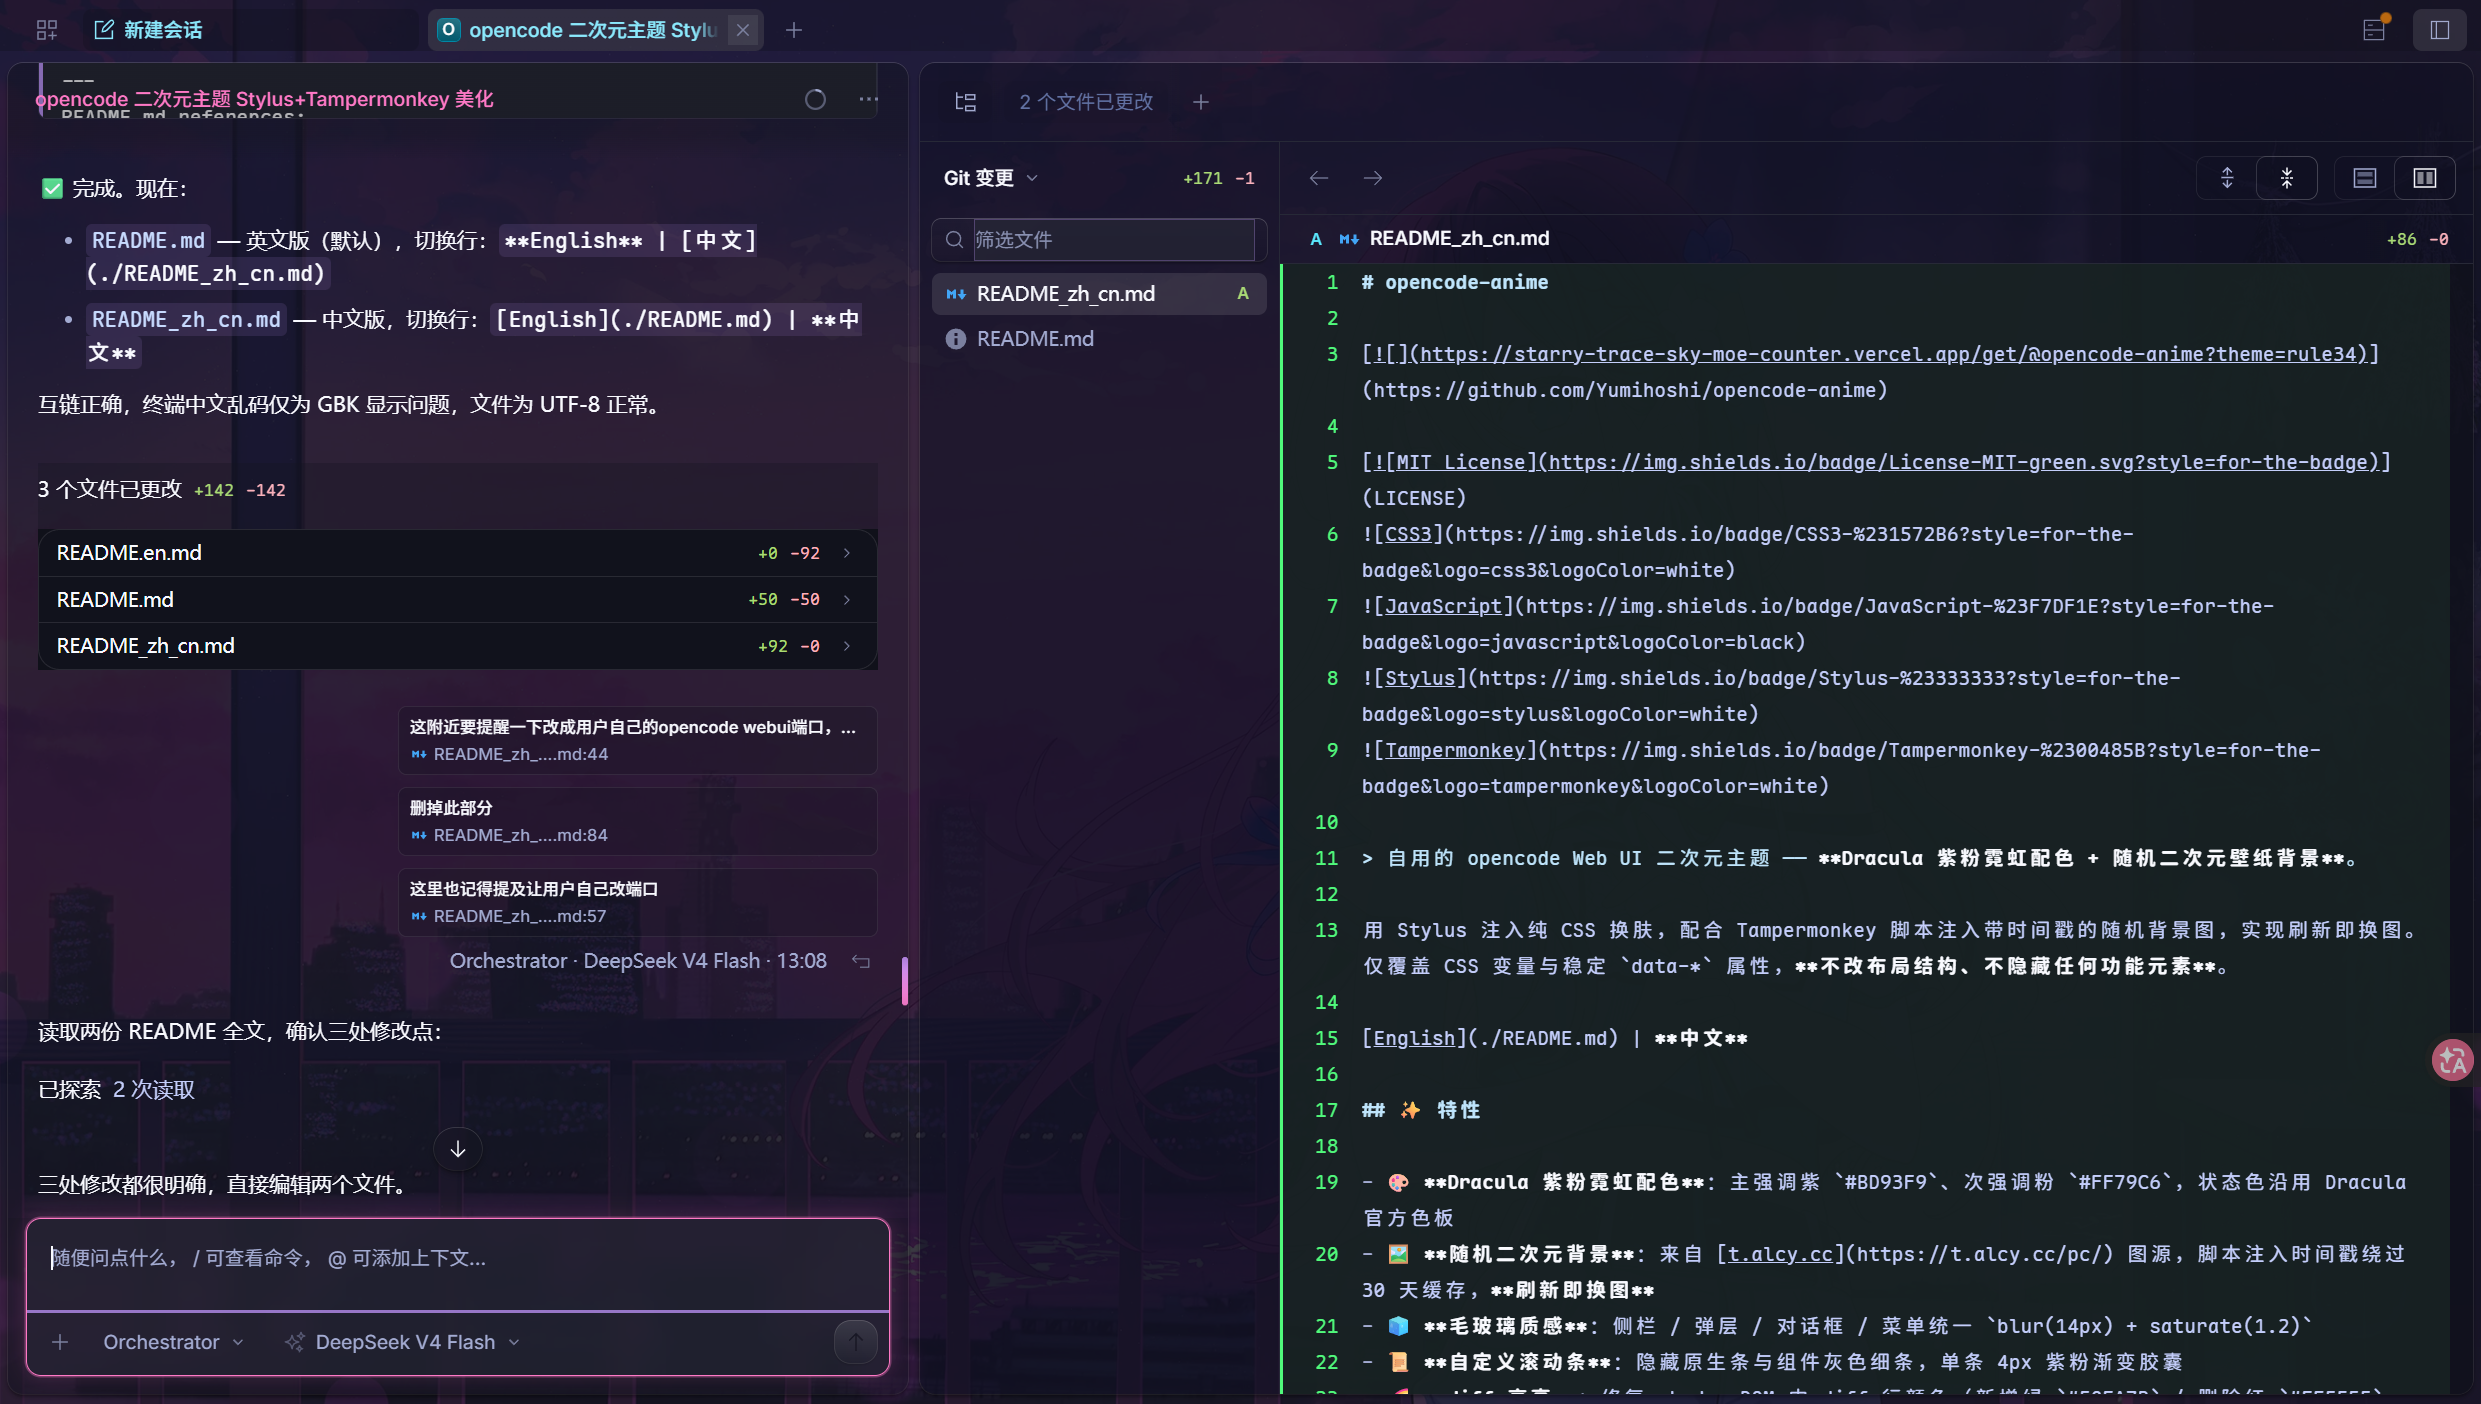
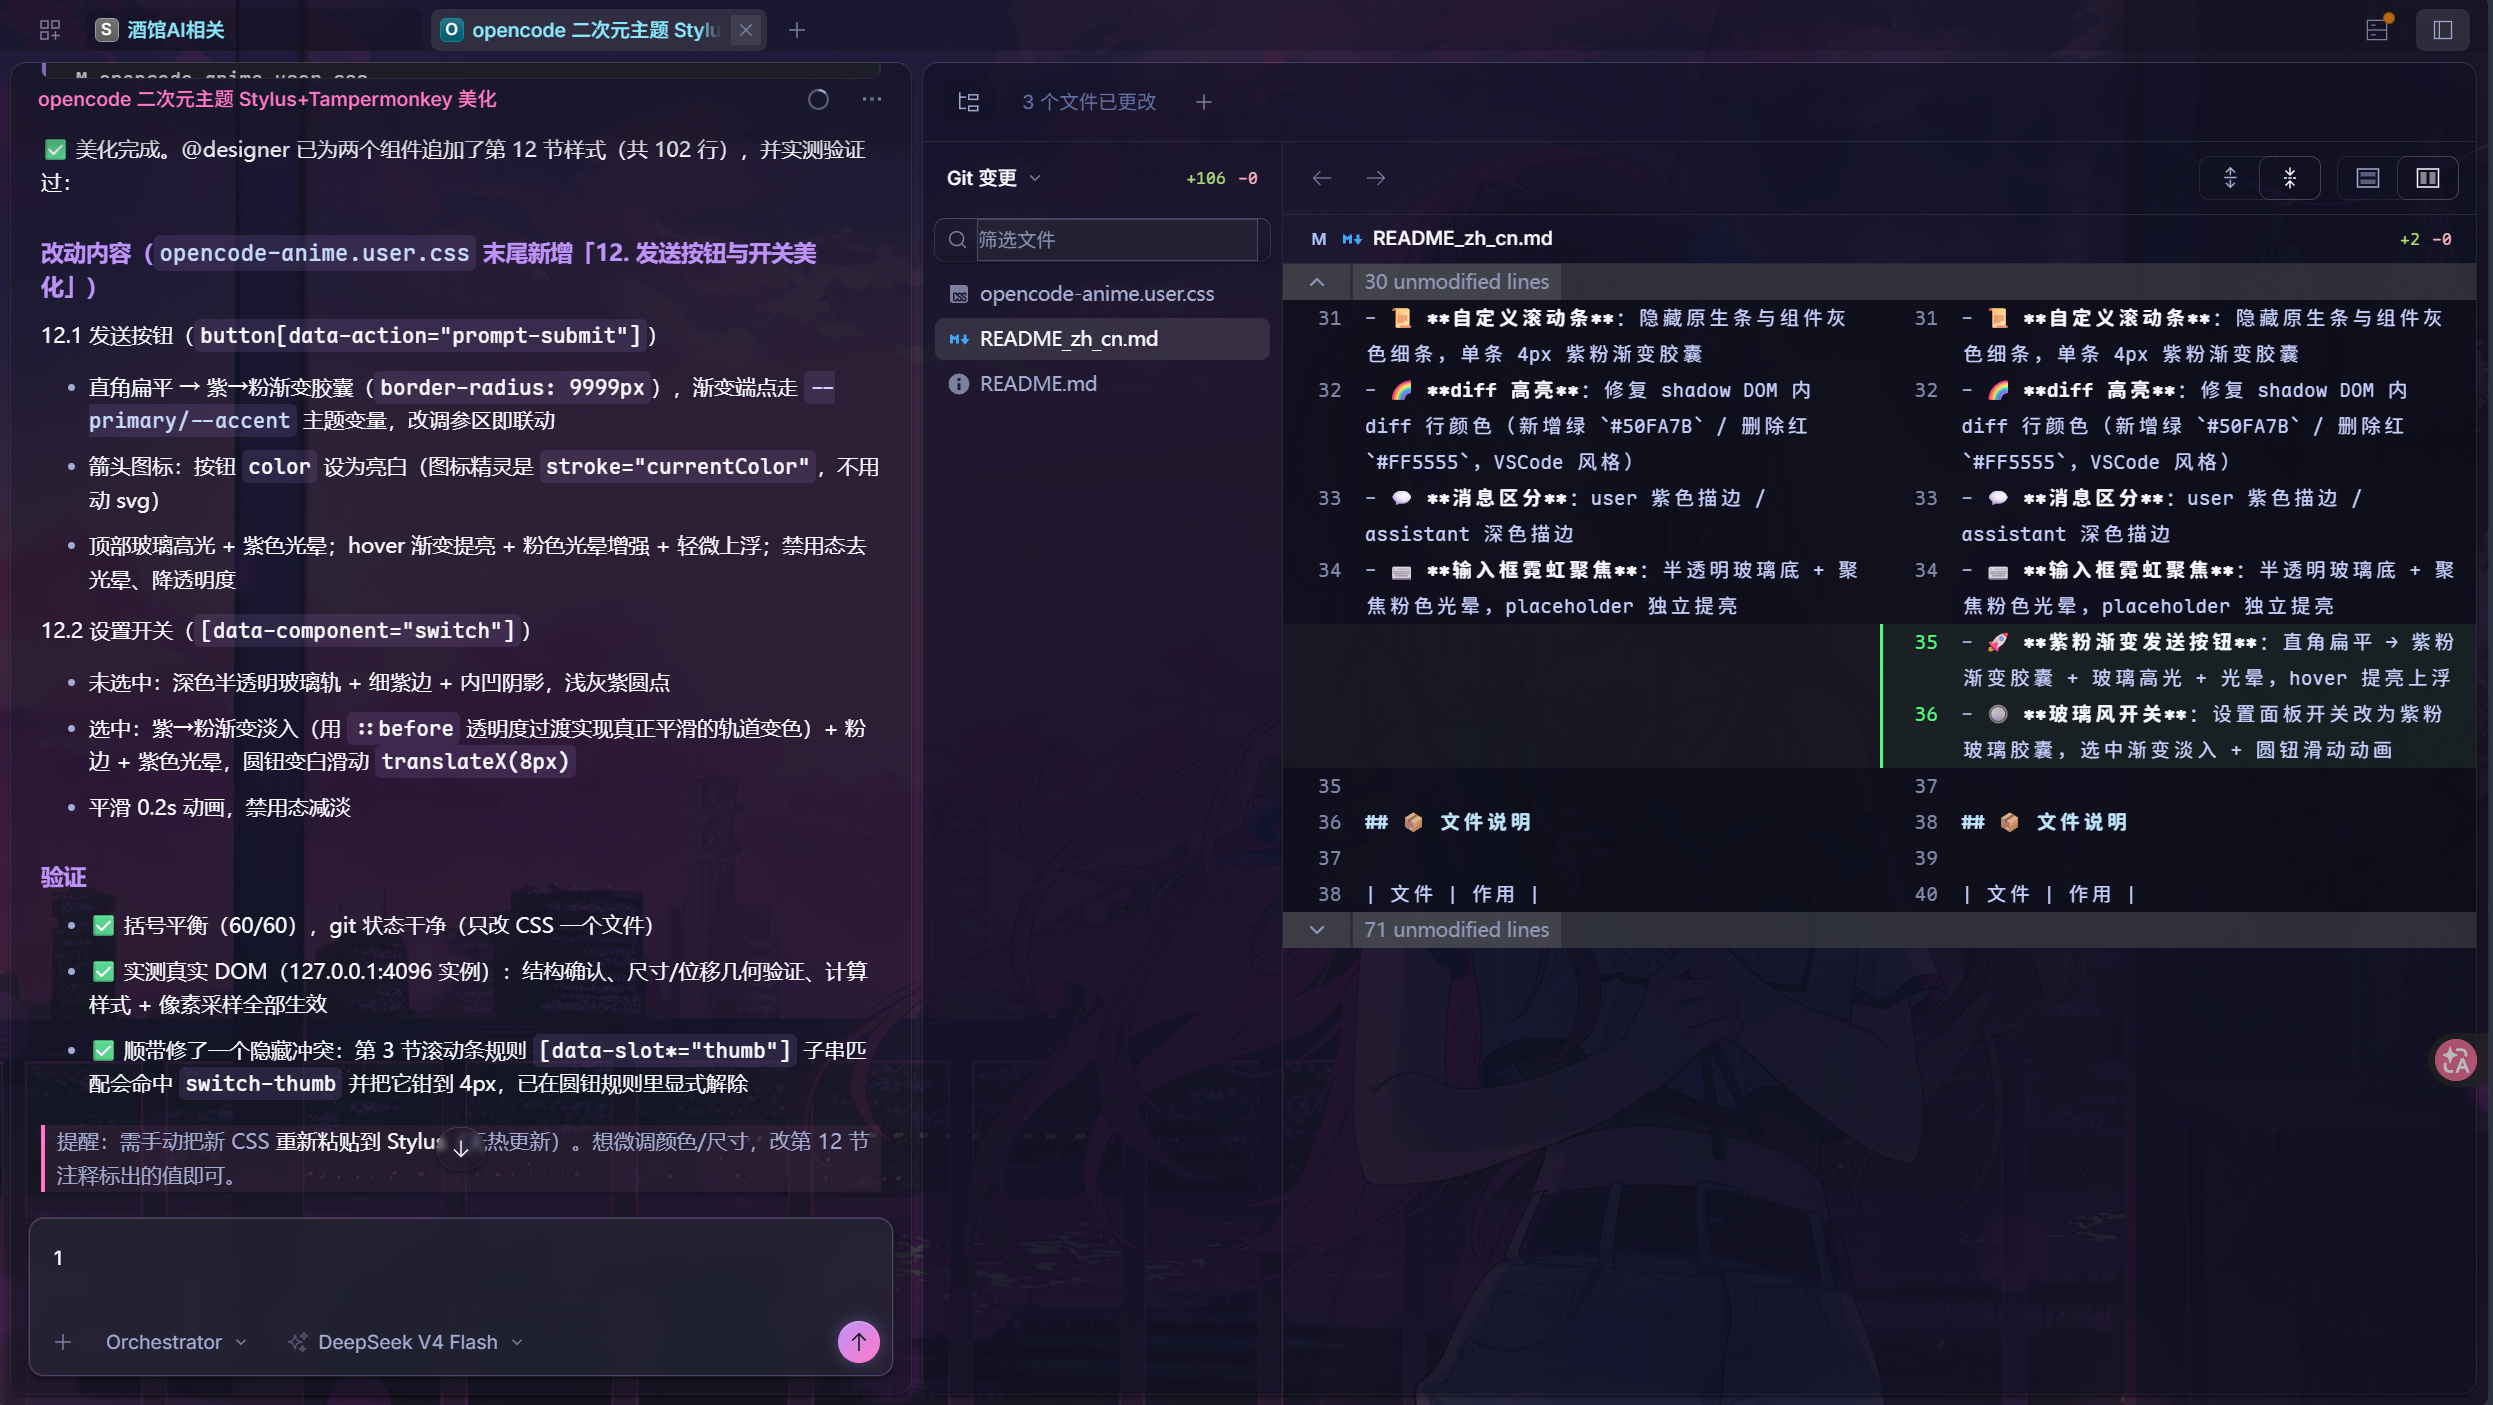
[feat]: 修改设置面板的开关按钮和发送消息按钮样式

diff --git a/opencode-anime.user.css b/opencode-anime.user.css
@@ -416,3 +416,105 @@ blockquote {
   border-left: 3px solid #FF79C6;
   background: rgba(255, 121, 198, 0.07);
 }
+
+/* ---------- 12. 发送按钮与开关美化 ---------- */
+
+/* 12.1 发送按钮（prompt-submit）
+   背景图是内联 style（opencode 组件注入的深色扁平底），
+   内联样式优先级最高，必须用 !important 才能压过；
+   图标精灵里箭头是 stroke="currentColor"，所以只改按钮的
+   color 就能给箭头换色，不需要动 svg */
+button[data-action="prompt-submit"] {
+  /* 紫→粉渐变胶囊 + 紫色微光；渐变端点走主题变量，改调参区即联动 */
+  background-image: linear-gradient(135deg, var(--primary) 0%, var(--accent) 100%) !important;
+  border-radius: 9999px !important;   /* 直角 → 圆胶囊（二次元聊天感） */
+  color: var(--foreground) !important;/* 箭头 = 亮白，继承 currentColor */
+  box-shadow: inset 0 1px 0 rgba(255, 255, 255, 0.22), /* 顶部玻璃高光 */
+              0 0 10px rgba(189, 147, 249, 0.35);      /* 紫色光晕 */
+  transition: box-shadow 0.18s ease, transform 0.18s ease;
+}
+button[data-action="prompt-submit"]:hover:not(:disabled) {
+  /* 渐变提亮 + 粉色光晕增强 + 轻微上浮；渐变本身不可插值，瞬时切换，光晕与位移平滑 */
+  background-image: linear-gradient(135deg, #D3B9FF 0%, #FF9BD9 100%) !important;
+  box-shadow: inset 0 1px 0 rgba(255, 255, 255, 0.30),
+              0 0 14px rgba(255, 121, 198, 0.55);
+  transform: translateY(-1px);
+}
+button[data-action="prompt-submit"]:disabled {
+  box-shadow: none !important;  /* 禁用：去掉光晕，仅保留渐变残影 */
+  opacity: 0.45;
+  cursor: not-allowed;
+}
+
+/* 12.2 设置面板开关（switch）
+   真实 DOM：input（视觉隐藏）紧邻 control，故可用
+   input:checked + control 兄弟选择器；再并列一条 :has() 兜底，
+   防止其他版本 DOM 层级变化时规则失效 */
+[data-component="switch"] [data-slot="switch-control"] {
+  position: relative;              /* 供 ::before 渐变层与 thumb 定位 */
+  width: 24px !important;          /* 尺寸写死，保证 translateX(8px) 几何成立 */
+  height: 16px !important;
+  padding: 2px !important;         /* 内容区 20×12，thumb 12px 恰好放下 */
+  border-radius: 9999px !important;/* 方角 → 玻璃胶囊 */
+  /* 未选中轨道：深色半透明玻璃底 + 细紫边 + 内凹；背景用 !important
+     压过组件自带的蓝灰底渐变（background 简写一并清掉它的渐变层） */
+  background: rgba(40, 42, 54, 0.90) !important;
+  box-shadow: inset 0 0 0 1px rgba(189, 147, 249, 0.22),
+              inset 0 1px 2px rgba(0, 0, 0, 0.30),
+              inset 0 -1px 0 rgba(255, 255, 255, 0.07),
+              0 0 0 rgba(189, 147, 249, 0); /* 光晕从透明起值，选中后平滑增强 */
+  transition: box-shadow 0.2s ease;
+}
+/* 选中渐变层：background 渐变无法平滑过渡，叠一层透明渐变随
+   opacity 淡入，才是真正连续的“轨道变色”动画 */
+[data-component="switch"] [data-slot="switch-control"]::before {
+  content: "";
+  position: absolute;
+  inset: 0;
+  border-radius: inherit;
+  background: linear-gradient(135deg, var(--primary), var(--accent));
+  box-shadow: inset 0 0 0 1px rgba(255, 121, 198, 0.40); /* 选中细粉边 */
+  opacity: 0;
+  transition: opacity 0.2s ease;
+}
+/* 选中态轨道：渐变淡入 + 紫色光晕亮起 */
+input[role="switch"]:checked + [data-slot="switch-control"],
+[data-component="switch"]:has(input:checked) [data-slot="switch-control"] {
+  box-shadow: inset 0 0 0 1px rgba(255, 121, 198, 0.40),
+              inset 0 1px 2px rgba(0, 0, 0, 0.20),
+              inset 0 -1px 0 rgba(255, 255, 255, 0.15),
+              0 0 8px rgba(189, 147, 249, 0.45);
+}
+input[role="switch"]:checked + [data-slot="switch-control"]::before,
+[data-component="switch"]:has(input:checked) [data-slot="switch-control"]::before {
+  opacity: 1;
+}
+/* 圆钮：未选中是浅灰紫小圆点，选中变白色、带柔白光晕；
+   两个状态都用纯色 background（简写清掉组件的渐变层），
+   background-color 才能平滑插值 */
+[data-component="switch"] [data-slot="switch-thumb"] {
+  position: relative;   /* 盖在渐变层之上 */
+  z-index: 1;
+  width: 12px !important;
+  height: 12px !important;
+  /* 第 3 节滚动条规则 [data-slot*="thumb"] 是子串匹配，会命中
+     switch-thumb 并把宽度钳到 4px，这里显式解除钳制 */
+  max-width: none !important;
+  max-height: none !important;
+  border-radius: 9999px !important;
+  background: #A9AFC9 !important;
+  box-shadow: 0 1px 2px rgba(0, 0, 0, 0.35);
+  transform: translateX(0);
+  transition: transform 0.2s ease, background-color 0.2s ease, box-shadow 0.2s ease;
+}
+input[role="switch"]:checked + [data-slot="switch-control"] [data-slot="switch-thumb"],
+[data-component="switch"]:has(input:checked) [data-slot="switch-thumb"] {
+  transform: translateX(8px);              /* 内容区 20px - 圆钮 12px = 8px */
+  background: var(--foreground) !important;/* 白色圆钮 */
+  box-shadow: 0 1px 2px rgba(0, 0, 0, 0.20),
+              0 0 6px rgba(248, 248, 242, 0.60);
+}
+/* 禁用：整体减淡 */
+[data-component="switch"][data-disabled] [data-slot="switch-control"] {
+  opacity: 0.5;
+}

diff --git a/README.md b/README.md
@@ -32,6 +32,8 @@ Pure CSS skin injected via Stylus, paired with a Tampermonkey script that append
 - 🌈 **Diff highlighting**: fixed diff-line colors inside shadow DOM (added green `#50FA7B` / removed red `#FF5555`, VS Code style)
 - 💬 **Message distinction**: user messages with purple outline / assistant with dark outline
 - ⌨ **Neon input focus**: semi-transparent glass base + pink glow on focus, placeholder brightened separately
+- 🚀 **Purple-pink gradient send button**: flat right angle → gradient capsule with glass highlight and glow, brightens and lifts on hover
+- 🔘 **Glassmorphism toggle switch**: settings switches restyled as purple-pink glass capsules, gradient fades in when checked with a sliding thumb animation
 
 ## 📦 Files
 

diff --git a/README_zh_cn.md b/README_zh_cn.md
@@ -32,6 +32,8 @@
 - 🌈 **diff 高亮**：修复 shadow DOM 内 diff 行颜色（新增绿 `#50FA7B` / 删除红 `#FF5555`，VSCode 风格）
 - 💬 **消息区分**：user 紫色描边 / assistant 深色描边
 - ⌨ **输入框霓虹聚焦**：半透明玻璃底 + 聚焦粉色光晕，placeholder 独立提亮
+- 🚀 **紫粉渐变发送按钮**：直角扁平 → 紫粉渐变胶囊 + 玻璃高光 + 光晕，hover 提亮上浮
+- 🔘 **玻璃风开关**：设置面板开关改为紫粉玻璃胶囊，选中渐变淡入 + 圆钮滑动动画
 
 ## 📦 文件说明
 
